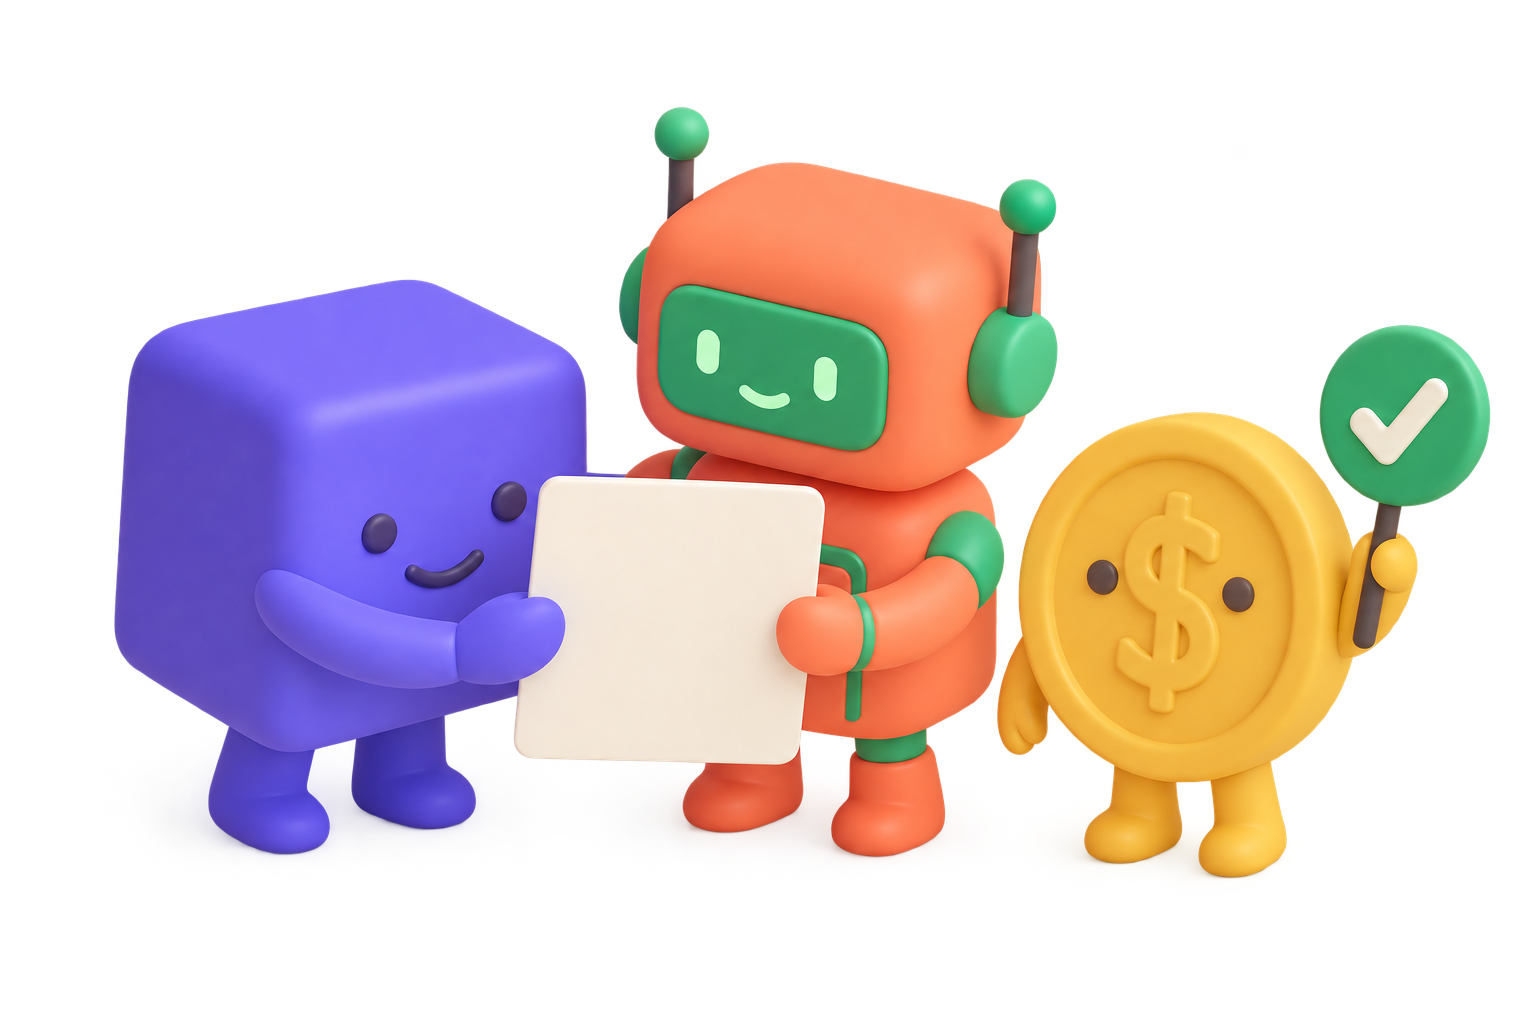
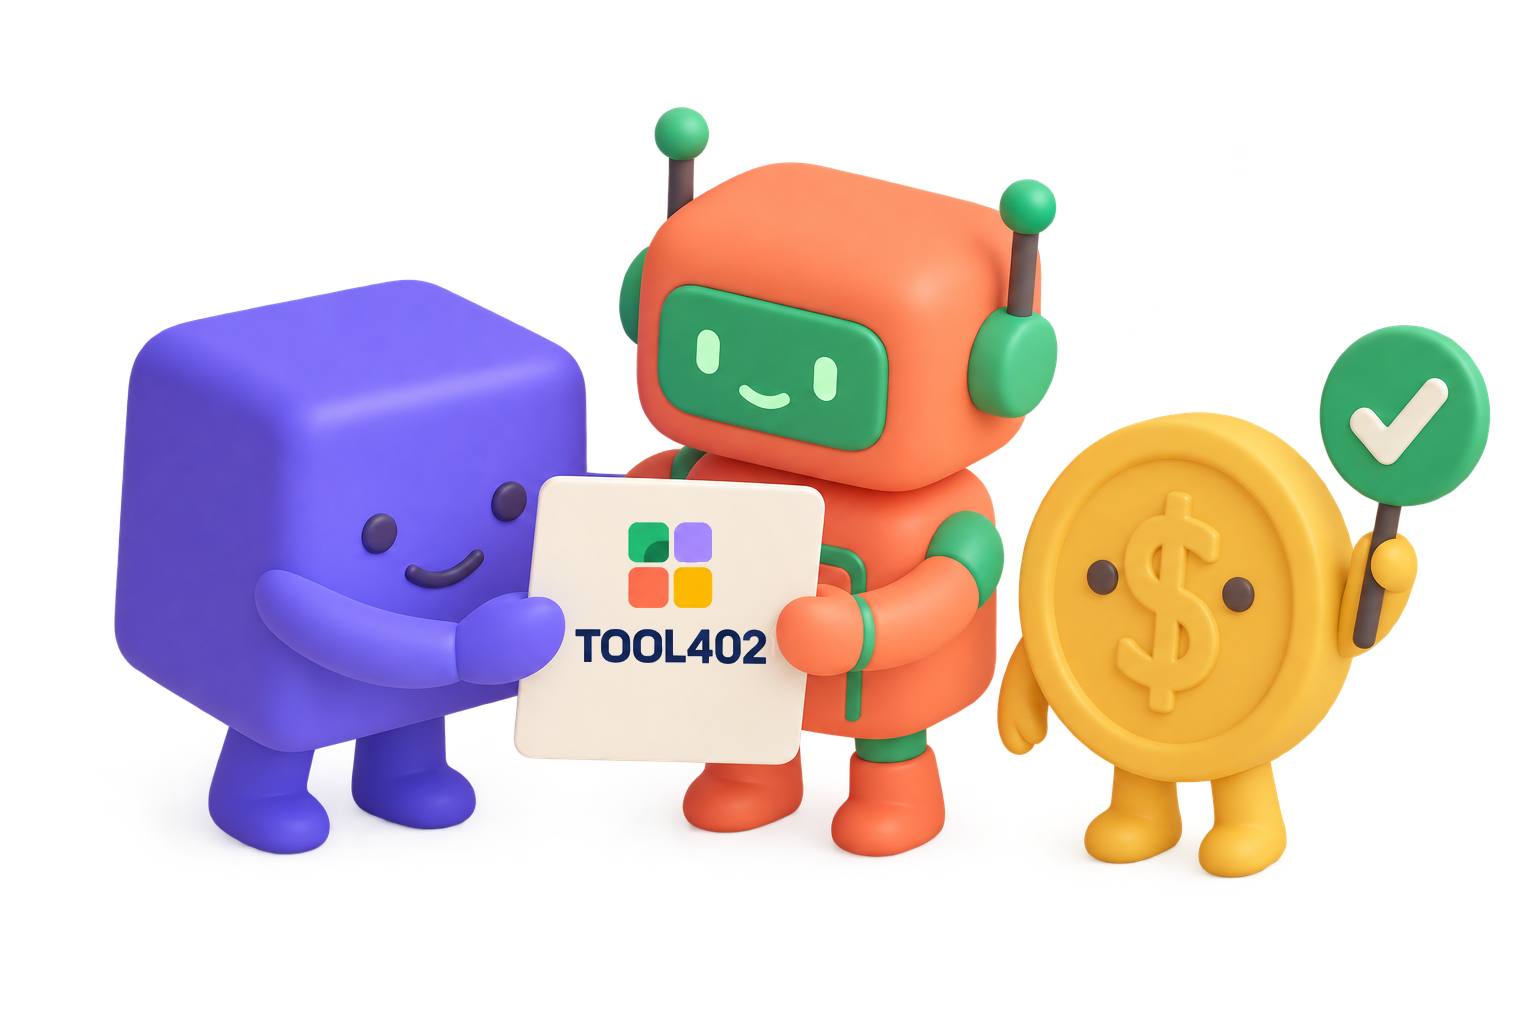
feat: Refine Tool402 mascot surfaces
Apply the exact Tool402 lockup to the existing transparent Explore and deploy artwork. Add the decorative seated purple mascot to the signed-dashboard empty state without changing campaign ownership or session behavior.

Changed region(s): [[0.375, 0.5, 0.5, 0.6562]]

diff --git a/apps/web/src/components/dashboard/dashboard-campaign.tsx b/apps/web/src/components/dashboard/dashboard-campaign.tsx
@@ -1,3 +1,4 @@
+import Image from "next/image";
 import Link from "next/link";
 import { cookies } from "next/headers";
 
@@ -27,12 +28,15 @@ export async function DashboardCampaign() {
       <section aria-label="No campaign yet">
         <Card className="rounded-card border-brand-purple/25 bg-brand-purple/5 shadow-none">
           <CardContent className="flex flex-col items-center gap-4 p-8 text-center sm:p-10">
-            <span aria-hidden="true" className="flex size-12 items-center justify-center rounded-tile border border-brand-purple/25 bg-background text-brand-purple">
-              <svg viewBox="0 0 24 24" fill="none" stroke="currentColor" strokeWidth="1.5" className="size-6">
-                <path d="M7 3.75h7.75L19.5 8.5v11.75H7V3.75Z" strokeLinejoin="round" />
-                <path d="M14.75 3.75V8.5h4.75M9.5 12h5M9.5 15.5h5" strokeLinecap="round" strokeLinejoin="round" />
-              </svg>
-            </span>
+            <div data-ui="dashboard-empty-mascot" aria-hidden="true">
+              <Image
+                src="/brand/dashboard-empty-mascot.png"
+                alt=""
+                width={1024}
+                height={1024}
+                className="h-36 w-36 object-contain sm:h-40 sm:w-40"
+              />
+            </div>
             <div className="space-y-1">
               <h2 className="text-xl font-bold tracking-[-0.035em] text-foreground">No campaign yet</h2>
               <p className="text-sm leading-6 text-muted-foreground">There is no RiskScan campaign associated with this signed dashboard session.</p>
